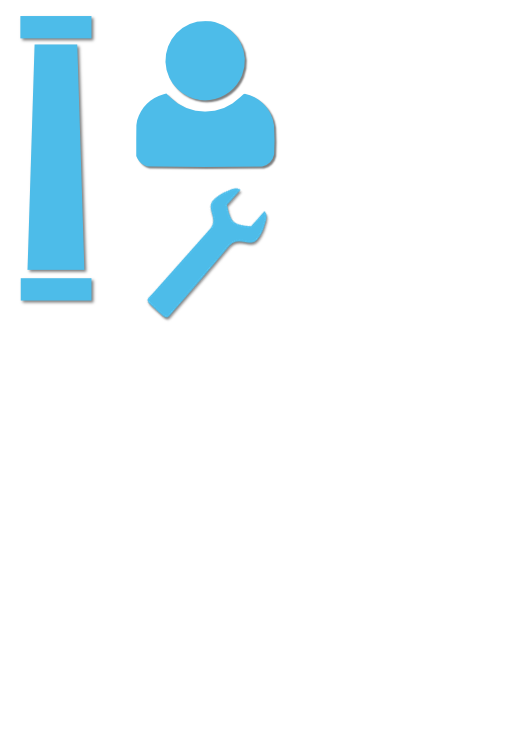
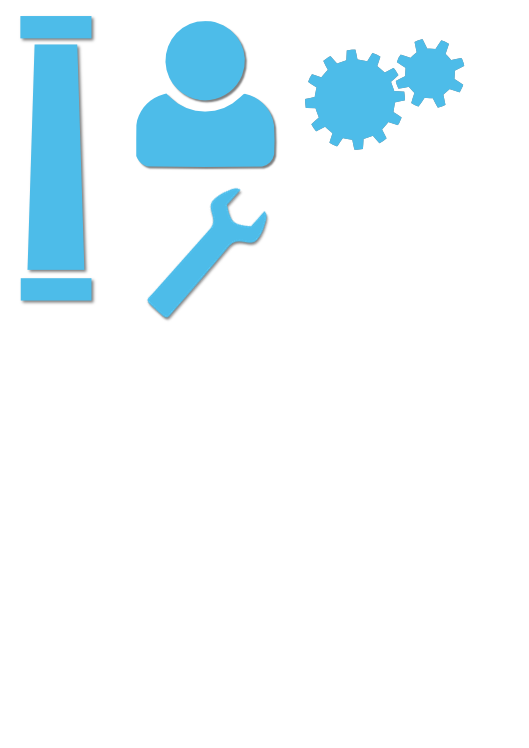
add orga glyph

Changed region(s): [[0.5747, 0.0307, 0.8771, 0.2152]]

diff --git a/src/common/less/main.less b/src/common/less/main.less
@@ -69,14 +69,17 @@ body {
 
         .glyph{
           background-size: 86px 122px;
-          width: 24px;
+          width: 26px;
           height: 26px;
         }
         .glyph.glyph-personnel {
-          background-position: -22px -3px;
+          background-position: -21px -3px;
         }
-        .glyph.glyph-tech {
+        .glyph.glyph-technologie {
           background-position: -21px -28px;
+        }
+        .glyph.glyph-organisation {
+          background-position: -50px -1px;
         }
 
       }
@@ -85,7 +88,7 @@ body {
       background-color: #fff;
       width: 100px;
       height: 100px;
-      padding-left: 14px;
+      padding-left: 11px;
       padding-top: 8px;
       border-radius: 50px;
       margin: 5px 36% 25px;
@@ -173,17 +176,21 @@ body {
 }
 
 .glyph.glyph-personnel {
-  background-position: -68px -10px;
+  background-position: -65px -10px;
 }
 
-.glyph.glyph-tech {
-  background-position: -68px -86px;
+.glyph.glyph-technologie {
+  background-position: -65px -85px;
+}
+
+.glyph.glyph-organisation {
+  background-position: -152px -2px;
 }
 
 .glyph {
   background: url('../img/glyph.png') no-repeat;
   background-size: 265px 374px;
-  width: 72px;
+  width: 80px;
   height: 76px;
 }
 
